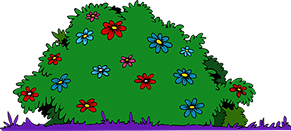
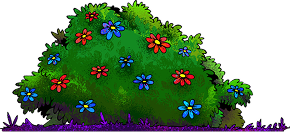
fixed bush characters

diff --git a/src/utils/getCharacterData.ts b/src/utils/getCharacterData.ts
@@ -73,21 +73,21 @@ export const CharacterData = {
   "bush-left": {
     good: {
       characterImage: "/assets/bush/goodFlower.png",
-      size: { width: "100%", height: "100%" },
+      size: { width: "100%", height: "70%" },
     },
     evil: {
       characterImage: "/assets/bush/evilFlower.png",
-      size: { width: "100%", height: "100%" },
+      size: { width: "100%", height: "70%" },
     },
   },
   "bush-right": {
     good: {
       characterImage: "/assets/bush/goodFlower.png",
-      size: { width: "100%", height: "100%" },
+      size: { width: "100%", height: "70%" },
     },
     evil: {
       characterImage: "/assets/bush/evilFlower.png",
-      size: { width: "100%", height: "100%" },
+      size: { width: "100%", height: "70%" },
     },
   },
   "under-bus": {

diff --git a/src/components/bush/Bush.tsx b/src/components/bush/Bush.tsx
@@ -12,12 +12,12 @@ interface BushProps {
 const Bush: React.FC<BushProps> = ({ position, characters, onCharacterClick, onAnimationEnd }) => {
   const boxes = {
     left: {
-      position: { top: "-25%", left: "33%" },
-      size: { width: "35%", height: "100%" },
+      position: { top: "-15%", left: "35%" },
+      size: { width: "45%", height: "100%" },
     },
     right: {
-      position: { top: "-25%", left: "33%" },
-      size: { width: "35%", height: "100%" },
+      position: { top: "-15%", left: "35%" },
+      size: { width: "45%", height: "100%" },
     },
   };
 

diff --git a/src/utils/gameLogic.ts b/src/utils/gameLogic.ts
@@ -11,7 +11,7 @@ export interface GameState {
 export const DEFAULT_GAME_STATE: GameState = {
   score: 0,
   timeLeft: 15, // Startar med 15 sekunder
-  maxCharacters: 4, // Max antal karaktärer som kan vara aktiva samtidigt
+  maxCharacters: 10, // Max antal karaktärer som kan vara aktiva samtidigt
   isGameOver: false,
   spawnInterval: 900, // sekund mellan varje spawn
   animationDuration: 2.5, // Börja med 3 sekunder

diff --git a/src/components/bus/Bus.tsx b/src/components/bus/Bus.tsx
@@ -63,8 +63,8 @@ const Bus: React.FC<BusProps> = ({
     },
     {
       id: "under-bus",
-      position: { top: "78%", left: "54%" },
-      size: { width: "13%", height: "25%" },
+      position: { top: "79%", left: "52%" },
+      size: { width: "17%", height: "20%" },
     },
   ];
 

diff --git a/src/components/characterBox/characterBox.css b/src/components/characterBox/characterBox.css
@@ -6,7 +6,7 @@
 
   position: relative;
   background: transparent;
-  border: 1px solid red;
+  /* border: 1px solid red; */
 }
 
 .character-box.flipped img {
